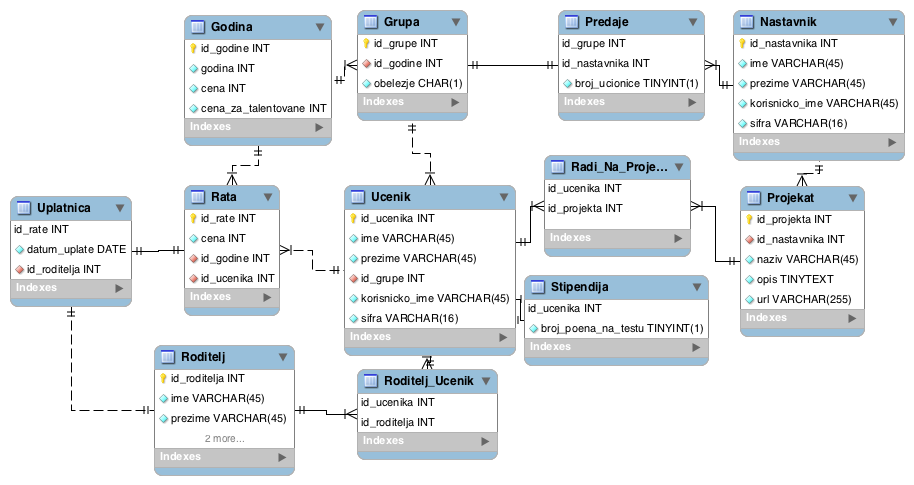
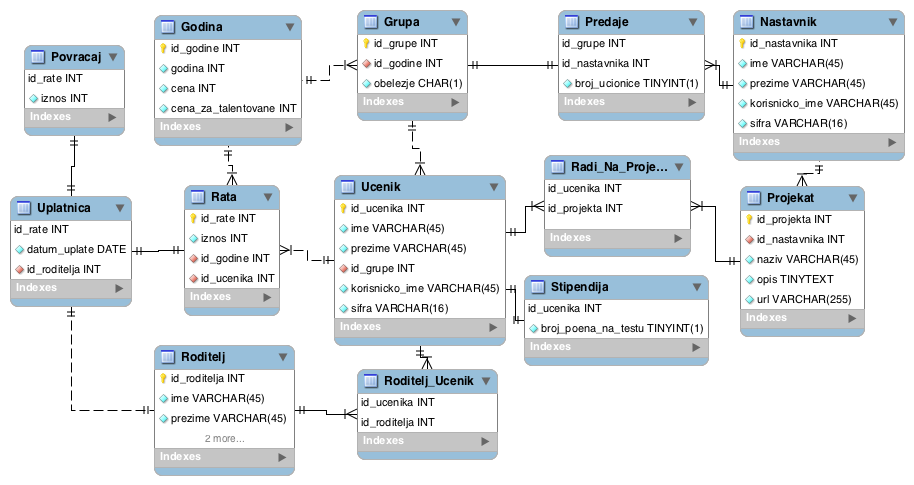
Dotata tabela povracaj, sredjeni triggeri.

diff --git a/readme.md b/readme.md
@@ -14,6 +14,7 @@ Nezavisni entiteti:
 Zavisni entiteti:
 - Uplatnica
 - Stipendija
+- Povracaj
 
 Agregirani entiteti:
 - Roditelj_Ucenik
@@ -24,26 +25,29 @@ Trigeri:
 - Pre unosenja rate proverava se da li je zbir cena svih rata veci od cene godine, i ako da rata se postavlja na potreban iznos, a ostatak novca se vraca roditelju.
 - Pre unosenja rate, ukoliko je ucenik u tabeli Stipendija, proverava se da li je zbir cena svih rata veci od vrednosti cena_za_stipendiste godine, i ako da rata se postavlja na potreban iznos, a ostatak novca se vraca roditelju.
 - Pre unosenja sifre za studenta ili roditelja, ona se hashuje.
+- Prilikom promene sifre za studenta ili roditelja, ako je razlicita od prethodne, hesira se.
 
 ### Ucenik
 Svaki ucenik ima svoj nalog. Kada ucenik zavrsi poslednju godinu, brise se iz evidencije.
 - ime
 - prezime
 - id_grupe: za ucenika se pamti grupa u kojoj slusa predavanja
-- username: korisnicko ime kojim ucenik pristupa sistemu
-- password: hesirana lozinka
+- korisnicko_ime: korisnicko ime kojim ucenik pristupa sistemu
+- sifra: hesirana lozinka
 
 ### Roditelj
 Roditelj ima uvid u finansije ali ne mogu da vide materijal i ostale stvari koje su potrebne uceniku. Nastavnici mogu da im se obracaju, zakazuju roditeljske sastanke, itd...
 - ime
 - prezime
-- username: korisnicko ime kojim roditelj pristupa sistemu
-- password: hesirana lozinka
+- korisnicko_ime: korisnicko ime kojim roditelj pristupa sistemu
+- sifra: hesirana lozinka
 
 ### Nastavnik
 Svaki nastavnik drzi nastavu celoj grupi jedne godine (svaki predmet), i moze da predaje vise grupa.
 - ime
 - prezime
+- korisnicko_ime: korisnicko ime kojim nastavnik pristupa sistemu
+- sifra: hesirana lozinka
 
 ### Godina
 Sadrzi informacije o rednom broju godine i o ceni / ceni za talentovane.
@@ -60,7 +64,6 @@ Po prelasku u drugu godinnu, menja se id_godine grupe, dok obelezje ostaje isto.
 ### Rata
 Sadrzi informacije o uplatiocu (roditelju), uceniku za koga se uplacuje i godinu koju ucenik slusa (da bi te informacije bile uvek dostpune).
 - iznos: uplacena kolicina novca
-- id_roditelja: roditelj koji je izvrsio uplatu
 - id_ucenika: ucenik za koga je izvrsena uplata
 - id_godine: godina koju ucenik pohadja (je pohadjao)
 
@@ -68,11 +71,17 @@ Sadrzi informacije o uplatiocu (roditelju), uceniku za koga se uplacuje i godinu
 Sadrzi dodatne informacije o uplati novca za potrebe knjigovodstva
 - id_rate: rata za koju je vezana uplatnica.
 - datum_uplate
+- id_roditelja: roditelj koji je izvrsio uplatu
 
 ### Stipendija
 Sadrzi informaciju o ucenicima koji su dobro plasirani na prijemnom ispitu (najboljih 30), koji jeftinije placaju skolarinu.
 - id_ucenika
 - broj_poena_na_testu
+
+### Povracaj
+Sadrzi informacije o povracaju novca ukoliko je uplaceno vise nego sto je potrebno.
+- id_rate
+- iznos
 
 ### Roditelj_Ucenik
 Veza izmedju roditelja i ucenika (otac i majka mogu da poseduju nalog za jednog ucenika, i roditelj moze imati vise dece).
